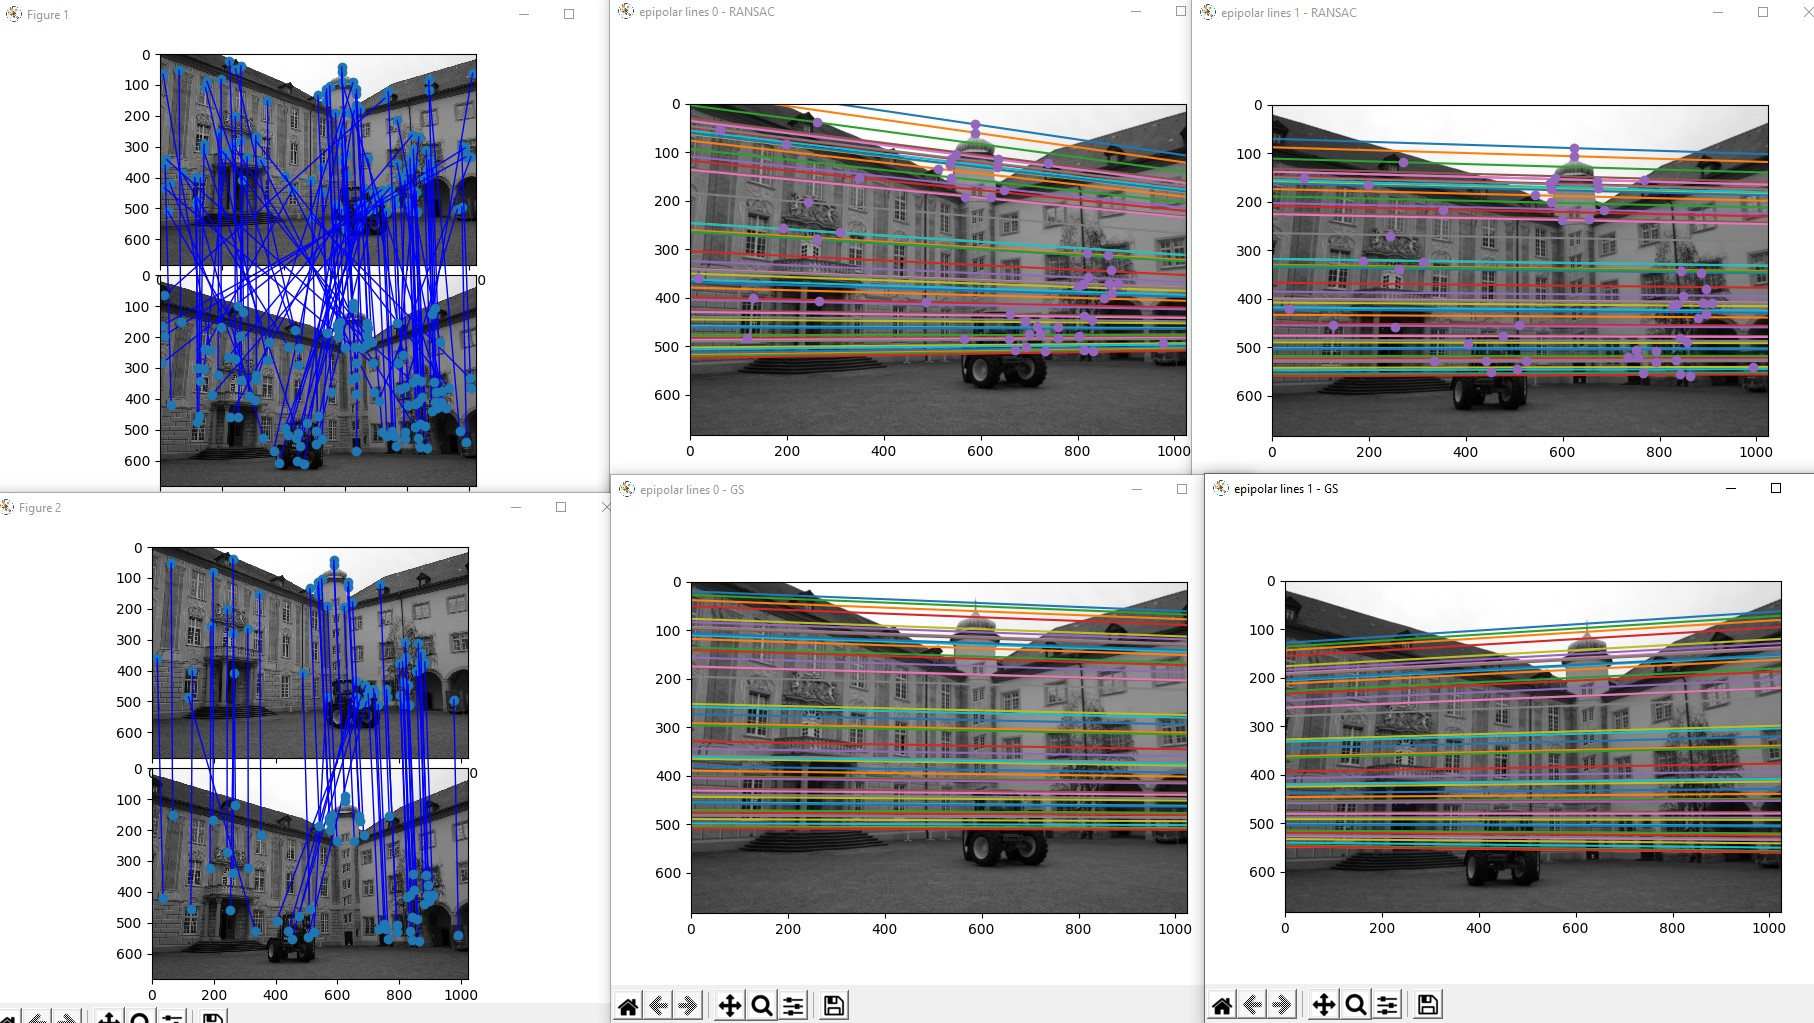
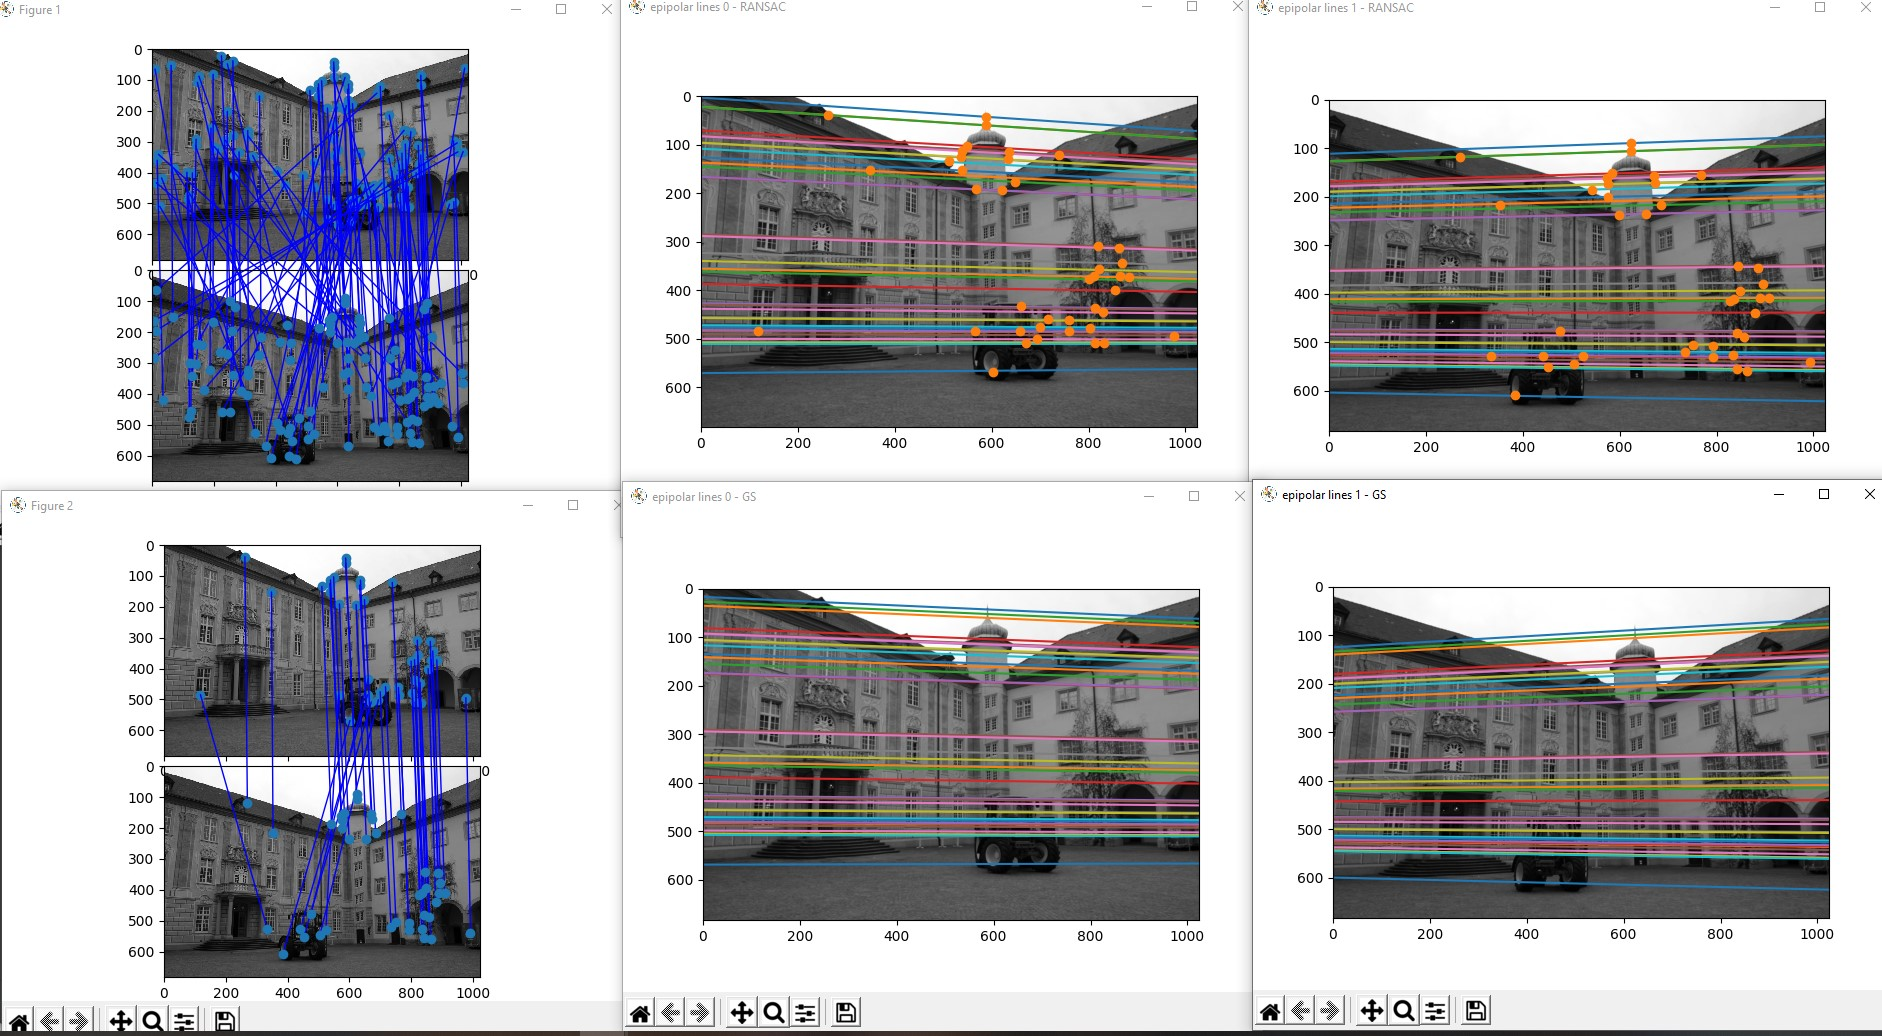
fixed and passed lab

diff --git a/ransac.py b/ransac.py
@@ -16,20 +16,14 @@ def ransac(p0, p1, N, t = 10):
         F = lab3.fmatrix_stls(pl, pr)
 
         residuals = lab3.fmatrix_residuals(F, p0, p1)
-        # print(residuals)
         inliers = np.zeros_like(residuals)
         inliers[abs(residuals) < t] = 1
 
-        # print(p0)
-        # print(inliers.sum(axis=0)==2)
-        # print(np.where(inliers.sum(axis=0)==2)[0])
-        # print(p0[:,np.where(inliers.sum(axis=0)==2)[0]])
-
-        if np.sum(inliers) > cur_max_inliers:
-
-            cur_max_inliers = np.sum(inliers)
+        if np.sum(inliers.sum(axis=0) == 2) > cur_max_inliers:
+            cur_max_inliers = np.sum(inliers.sum(axis=0) == 2)
             cur_F = F
             cur_pl = p0[:, np.where(inliers.sum(axis=0) == 2)[0]]
             cur_pr = p1[:, np.where(inliers.sum(axis=0) == 2)[0]]
 
+    print('INLIER ratio', cur_max_inliers/len(p0[0]))
     return cur_F, cur_pl, cur_pr

diff --git a/main.py b/main.py
@@ -35,7 +35,7 @@ p0, p1 = get_corr(img_0,img_1,pt_coord_0,pt_coord_1) #[x,y]
 """
 3. RANSAC
 """
-F, pl, pr = ransac(p0, p1, N = 3000 , t = 5)
+F, pl, pr = ransac(p0, p1, N = 4000 , t = 2)
 
 """
 Visualize epipolar lines
@@ -88,6 +88,8 @@ plt.imshow(img_1)
 lab3.plot_eplines(F_new.T, pl, img_1.shape)
 
 #### testing area ####
+
+print('RANSAC residual square sum:', np.sum(np.square(lab3.fmatrix_residuals(F, pl, pr))))
+print('GS residual square sum:', np.sum(np.square(lab3.fmatrix_residuals(F_new, pl, pr))))
+
 plt.show()
-
-
